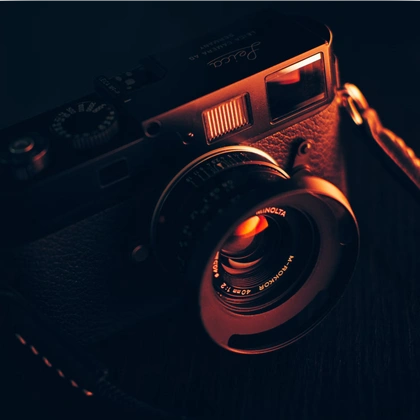
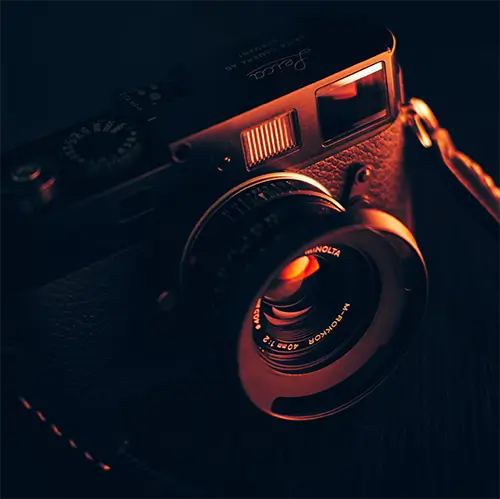
itemprop update and resiez img camra

diff --git a/assets/style.min.css b/assets/style.min.css
@@ -1,1 +1,1 @@
-@font-face{font-family:'Inter';font-style:normal;font-weight:400;font-display:swap;src:url(https://fonts.gstatic.com/s/inter/v13/UcCO3FwrK3iLTeHuS_fvQtMwCp50KnMw2boKoduKmMEVuLyfMZg.ttf) format('truetype')}@font-face{font-family:'Spectral';font-style:italic;font-weight:300;font-display:swap;src:url(https://fonts.gstatic.com/s/spectral/v13/rnCu-xNNww_2s0amA9M8qtHEafM.ttf) format('truetype')}@font-face{font-family:'Spectral';font-style:italic;font-weight:400;font-display:swap;src:url(https://fonts.gstatic.com/s/spectral/v13/rnCt-xNNww_2s0amA9M8kn0.ttf) format('truetype')}@font-face{font-family:'Spectral';font-style:italic;font-weight:800;font-display:swap;src:url(https://fonts.gstatic.com/s/spectral/v13/rnCu-xNNww_2s0amA9M8qt3AafM.ttf) format('truetype')}@font-face{font-family:'Spectral';font-style:normal;font-weight:400;font-display:swap;src:url(https://fonts.gstatic.com/s/spectral/v13/rnCr-xNNww_2s0amA-M-.ttf) format('truetype')}body{max-width:1920px;margin:auto}*{font-family:'Inter';font-style:normal}img{max-width:100%;height:auto}.top-header{background-color:#fff;position:sticky;top:0;z-index:1000;display:flex;justify-content:space-between;padding-inline:100px;padding-block:30px;align-items:center}.top-header ul{display:flex;list-style-type:none;font-size:14px;margin-bottom:0}.top-header li{padding-inline:10px}.top-header a{text-decoration:none;color:#000}.social-link img{width:20px;height:20px}#about{display:flex;max-width:100%;background-color:#F6D2B8;padding-inline:100px;padding-block:100px;position:relative}.picture.left::before{content:' ';background-color:#E5975F;width:374px;height:329px;position:absolute;bottom:0;left:0;z-index:-1}.picture{flex:1;margin:0 20px;z-index:0}#about-me{flex:2}.about-me__title{margin-top:1em;margin-bottom:60px;font-size:30px}.about-me__introduction{font-family:'Spectral';font-weight:800;font-style:italic;width:60%}#about-me p{width:80%;font-size:14px}#gallery{max-width:100%;min-height:100vh}.title{text-align:center;padding-block:2em}.gallery .nav{justify-content:center}.nav-pills .nav-link.active,.nav-pills .show>.nav-link{color:#fff;background-color:#1B5E6F;border-radius:0}.nav-pills .nav-link{color:#000}.item-column{position:relative;margin-bottom:0!important;padding:0}.item-column::after{content:"";display:block;padding-bottom:100%}.gallery-item{position:absolute;width:100%;height:100%;object-fit:cover;padding:.5em}.mg-prev,.mg-next{width:30px;height:30px;border-radius:0%;justify-content:center;align-items:center;display:flex;font-size:24px}.quote{font-family:'Spectral';font-style:italic;width:70%;margin:auto;padding-block:3em}.quote__text{font-family:Spectral;font-style:italic;font-weight:300}.quote__author{font-family:Spectral;font-weight:800;font-size:22px}#services{margin:auto;background-color:#A8D5D8;position:relative}#services .container::before{content:' ';background-color:#1C6474;position:absolute;width:100%;height:30%;bottom:0;left:0;z-index:0}#services .container{justify-content:space-between;display:flex;padding:2em 0}.service{background-color:#fff;max-width:390px;width:30%;height:337px;padding:1em;display:flex;flex-direction:column;justify-content:space-between;z-index:1}#contact{display:flex;margin:auto;background-color:#D8D3A8;position:relative;padding-inline:100px;padding-block:100px}#contact .container{display:flex;flex-direction:column}.picture.right::before{content:' ';background-color:#BEB45A;width:374px;height:329px;position:absolute;bottom:0;right:0;z-index:-1}.form-container{flex:2}form{display:flex;flex-direction:column;width:70%;align-items:flex-start}form input{width:100%;background-color:transparent;border:solid 1px;height:2.5em;margin-bottom:20px}form textarea{width:100%;background-color:transparent;border:solid 1px;height:5em;line-height:2.5em;font-size:1.2em;margin-bottom:20px}input[type="submit"]{background-color:#BEB45A;padding:.5em 1em}footer{display:flex;flex-direction:row;justify-content:space-between;padding:26px 100px;font-size:16px}footer a{color:#000}@media all and (max-width:1180px){.picture{flex:2}#about,#contact .container{align-items:center}.about-me__title{margin-top:0;margin-bottom:1em}#about-me p{width:100%}}@media all and (max-width:1000px){#about{flex-direction:column}.picture{width:50%}.picture.left::before{width:100%;height:30%;position:absolute;bottom:auto;top:0;left:0;z-index:-1}.about-me__title{text-align:center;margin-top:1em}#services .container{flex-direction:column}.service{width:100%;max-width:100%;height:auto;margin:2em 0}.service__description{margin-bottom:1em}#services .container::before{width:30%;height:100%;bottom:0;right:0;left:auto;z-index:0}#contact .container{flex-direction:column}#contact .picture.right{margin-top:1em}.picture.right::before{width:100%;height:30%;position:absolute;bottom:0;right:0;z-index:-1}}@media all and (max-width:650px){.top-header{flex-direction:column;padding-inline:0}.top-header nav,.top-header ul{width:100%;padding:0 0 0 0}.top-header li{flex:1;padding-block:1em;text-align:center}.picture.left::before,.picture.right::before{height:150px}#services .container{align-items:center}.service{max-width:90%}#about,#contact{padding-inline:2em;padding-block:2em}form{width:100%}.picture{width:80%}}
+@font-face{font-family:'Inter';font-style:normal;font-weight:400;font-display:swap;src:url(https://fonts.gstatic.com/s/inter/v13/UcCO3FwrK3iLTeHuS_fvQtMwCp50KnMw2boKoduKmMEVuLyfMZg.ttf) format('truetype')}@font-face{font-family:'Spectral';font-style:italic;font-weight:300;font-display:swap;src:url(https://fonts.gstatic.com/s/spectral/v13/rnCu-xNNww_2s0amA9M8qtHEafM.ttf) format('truetype')}@font-face{font-family:'Spectral';font-style:italic;font-weight:400;font-display:swap;src:url(https://fonts.gstatic.com/s/spectral/v13/rnCt-xNNww_2s0amA9M8kn0.ttf) format('truetype')}@font-face{font-family:'Spectral';font-style:italic;font-weight:800;font-display:swap;src:url(https://fonts.gstatic.com/s/spectral/v13/rnCu-xNNww_2s0amA9M8qt3AafM.ttf) format('truetype')}@font-face{font-family:'Spectral';font-style:normal;font-weight:400;font-display:swap;src:url(https://fonts.gstatic.com/s/spectral/v13/rnCr-xNNww_2s0amA-M-.ttf) format('truetype')}body{max-width:1920px;margin:auto}*{font-family:'Inter';font-style:normal}img{max-width:100%;height:auto}.top-header{background-color:#fff;position:sticky;top:0;z-index:1000;display:flex;justify-content:space-between;padding-inline:100px;padding-block:30px;align-items:center}.top-header ul{display:flex;list-style-type:none;font-size:14px;margin-bottom:0}.top-header li{padding-inline:10px}.top-header a{text-decoration:none;color:#000}.social-link img{width:20px;height:20px}#about{display:flex;max-width:100%;background-color:#F6D2B8;padding-inline:100px;padding-block:100px;position:relative}.picture.left::before{content:' ';background-color:#E5975F;width:374px;height:329px;position:absolute;bottom:0;left:0;z-index:-1}.picture{flex:1;margin:0 20px;z-index:0}#about-me{flex:2;width: 100%;height: auto}.about-me__title{margin-top:1em;margin-bottom:60px;font-size:30px}.about-me__introduction{font-family:'Spectral';font-weight:800;font-style:italic;width:60%}#about-me p{width:80%;font-size:14px}#gallery{max-width:100%;min-height:100vh}.title{text-align:center;padding-block:2em}.gallery .nav{justify-content:center}.nav-pills .nav-link.active,.nav-pills .show>.nav-link{color:#fff;background-color:#1B5E6F;border-radius:0}.nav-pills .nav-link{color:#000}.item-column{position:relative;margin-bottom:0!important;padding:0}.item-column::after{content:"";display:block;padding-bottom:100%}.gallery-item{position:absolute;width:100%;height:100%;object-fit:cover;padding:.5em}.mg-prev,.mg-next{width:30px;height:30px;border-radius:0%;justify-content:center;align-items:center;display:flex;font-size:24px}.quote{font-family:'Spectral';font-style:italic;width:70%;margin:auto;padding-block:3em}.quote__text{font-family:Spectral;font-style:italic;font-weight:300}.quote__author{font-family:Spectral;font-weight:800;font-size:22px}#services{margin:auto;background-color:#A8D5D8;position:relative}#services .container::before{content:' ';background-color:#1C6474;position:absolute;width:100%;height:30%;bottom:0;left:0;z-index:0}#services .container{justify-content:space-between;display:flex;padding:2em 0}.service{background-color:#fff;max-width:390px;width:30%;height:337px;padding:1em;display:flex;flex-direction:column;justify-content:space-between;z-index:1}#contact{display:flex;margin:auto;background-color:#D8D3A8;position:relative;padding-inline:100px;padding-block:100px}#contact .container{display:flex;flex-direction:column}.picture.right::before{content:' ';background-color:#BEB45A;width:374px;height:329px;position:absolute;bottom:0;right:0;z-index:-1}.form-container{flex:2}form{display:flex;flex-direction:column;width:70%;align-items:flex-start}form input{width:100%;background-color:transparent;border:solid 1px;height:2.5em;margin-bottom:20px}form textarea{width:100%;background-color:transparent;border:solid 1px;height:5em;line-height:2.5em;font-size:1.2em;margin-bottom:20px}input[type="submit"]{background-color:#BEB45A;padding:.5em 1em}footer{display:flex;flex-direction:row;justify-content:space-between;padding:26px 100px;font-size:16px}footer a{color:#000}@media all and (max-width:1180px){.picture{flex:2}#about,#contact .container{align-items:center}.about-me__title{margin-top:0;margin-bottom:1em}#about-me p{width:100%}}@media all and (max-width:1000px){#about{flex-direction:column}.picture{width:50%}.picture.left::before{width:100%;height:30%;position:absolute;bottom:auto;top:0;left:0;z-index:-1}.about-me__title{text-align:center;margin-top:1em}#services .container{flex-direction:column}.service{width:100%;max-width:100%;height:auto;margin:2em 0}.service__description{margin-bottom:1em}#services .container::before{width:30%;height:100%;bottom:0;right:0;left:auto;z-index:0}#contact .container{flex-direction:column}#contact .picture.right{margin-top:1em}.picture.right::before{width:100%;height:30%;position:absolute;bottom:0;right:0;z-index:-1}}@media all and (max-width:650px){.top-header{flex-direction:column;padding-inline:0}.top-header nav,.top-header ul{width:100%;padding:0 0 0 0}.top-header li{flex:1;padding-block:1em;text-align:center}.picture.left::before,.picture.right::before{height:150px}#services .container{align-items:center}.service{max-width:90%}#about,#contact{padding-inline:2em;padding-block:2em}form{width:100%}.picture{width:80%}}

diff --git a/index.html b/index.html
@@ -34,7 +34,7 @@
     
 </head>
 
-<body itemscope itemtype="https://schema.org/LocalBusiness">
+<body>
     <nav class="top-header">
         <h1>Nina Carducci</h1>
         <ul>
@@ -54,7 +54,7 @@
         <header id="header">
             <figure id="carouselExampleIndicators" class="carousel slide carousel-inner" data-bs-ride="carousel">
                 <figure class="carousel-item active">
-                    <img src="./assets/images/slider/ryoji-iwata-wUZjnOv7t0g-unsplash.webp" class="d-block w-100" alt="Un homme en costume marche dans la rue sur des rayures blanches et grises" width="1532" height="732">
+                    <img src="./assets/images/slider/ryoji-iwata-wUZjnOv7t0g-unsplash.webp" class="d-block w-100" alt="Un homme en costume marche dans la rue sur des rayures blanches et grises">
                 </figure>
 
                 <figure class="carousel-item">
